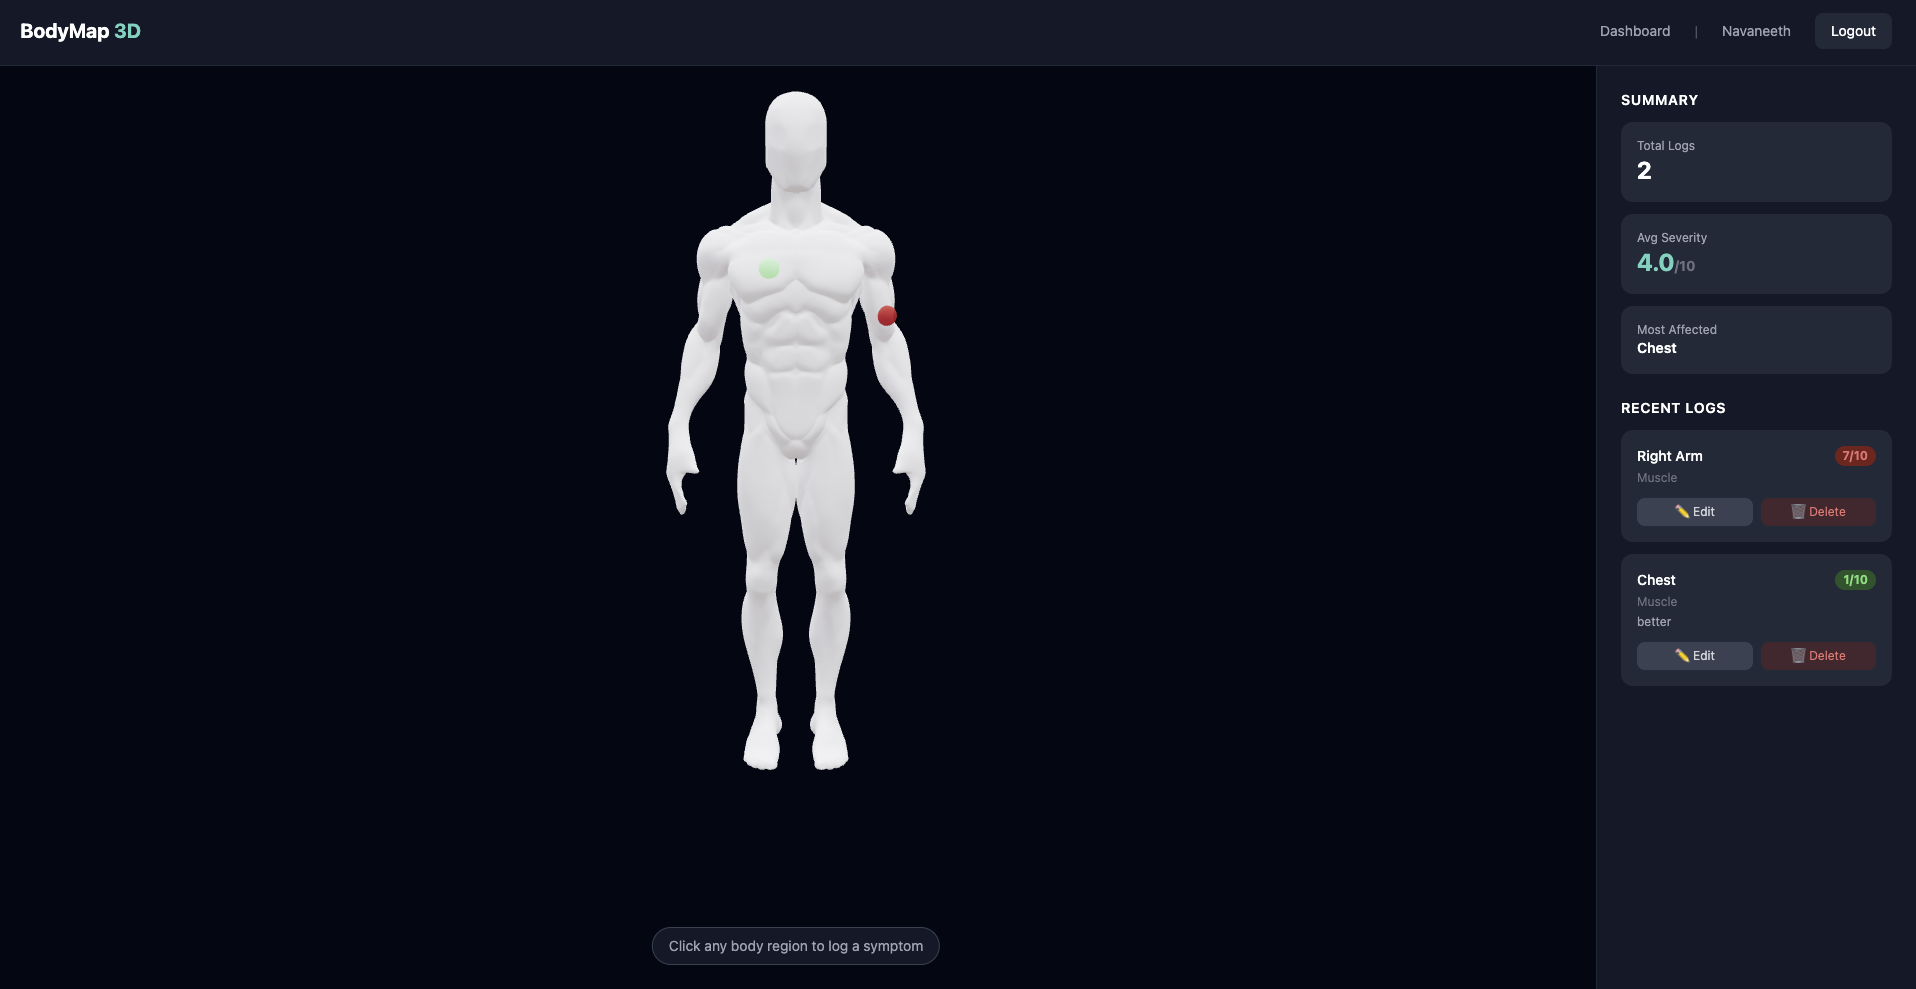
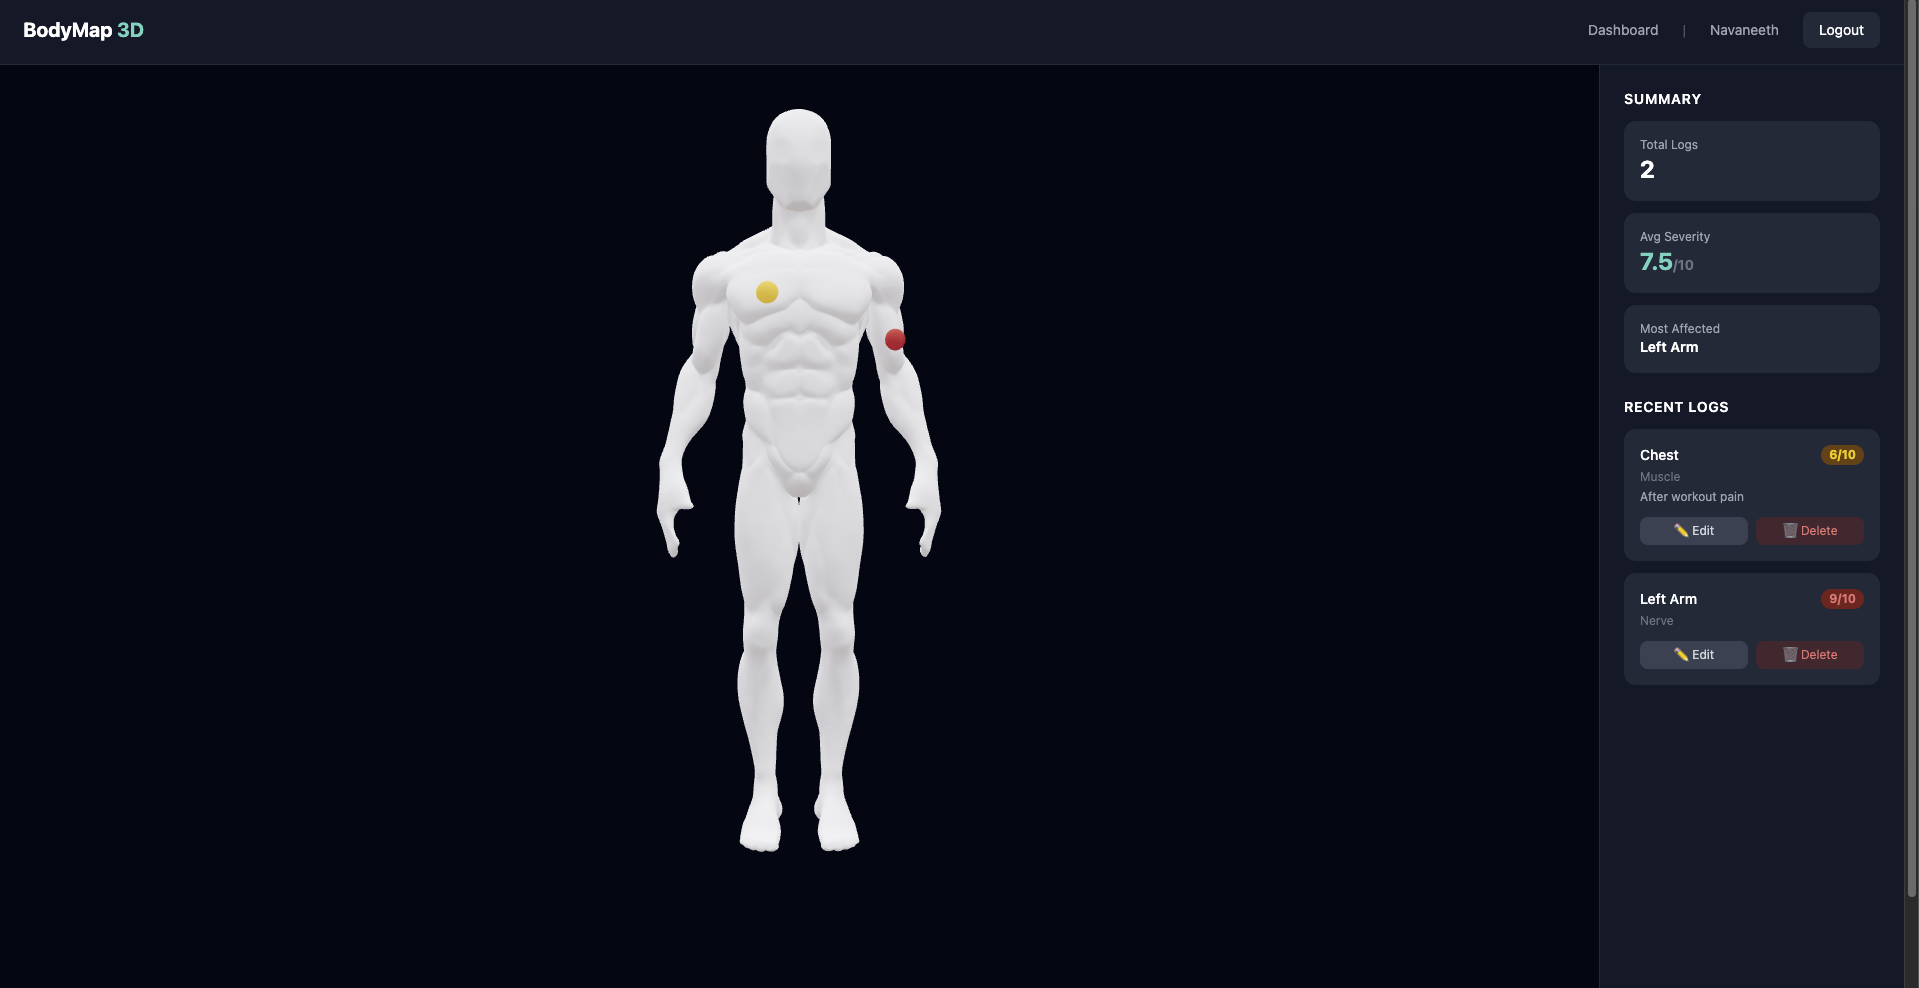
Updated screenshots

diff --git a/client/src/components/BodyModel.jsx b/client/src/components/BodyModel.jsx
@@ -11,21 +11,21 @@ const getRegionFromPoint = (point) => {
   if (z < 0) {
     if (y > 1.35)                                       return 'head';
     if (y > 1.2)                                        return 'neck';
-    if (y > 0.95 && x < -0.3)                          return 'left_shoulder';
-    if (y > 0.95 && x > 0.3)                           return 'right_shoulder';
+    if (y > 0.95 && x < -0.3)                          return 'right_shoulder';
+    if (y > 0.95 && x > 0.3)                           return 'left_shoulder';
     if (y > 0.9 && x > -0.3 && x < 0.3)               return 'upper_back';
     if (y > 0.75 && y < 0.95 && x > -0.3 && x < 0.3)  return 'middle_back';
     if (y > 0.5 && y < 0.75 && x > -0.3 && x < 0.3)   return 'lower_back';
-    if (y > 0.1 && y < 0.95 && x < -0.2)              return 'left_arm';
-    if (y > 0.1 && y < 0.95 && x > 0.2)               return 'right_arm';
+    if (y > 0.1 && y < 0.95 && x < -0.2)              return 'right_arm';
+    if (y > 0.1 && y < 0.95 && x > 0.2)               return 'left_arm';
     if (y < 0.5 && y > 0.3 && x < -0.05)              return 'right_glute';
     if (y < 0.5 && y > 0.3 && x > 0.05)               return 'left_glute';
     if (y < 0.3 && y > -0.25 && x < -0.1)              return 'right_hamstring';
     if (y < 0.3 && y > -0.25 && x > 0.1)               return 'left_hamstring';
-    if (y > -0.25 && y < 0.1 && x < -0.1)             return 'left_knee';
-    if (y > -0.25 && y < 0.1 && x > 0.1)              return 'right_knee';
-    if (y > -0.5 && y < -0.25 && x < -0.1)              return 'left_calf';
-    if (y > -0.5 && y < -0.25 && x > 0.1)               return 'right_calf';
+    if (y > -0.25 && y < 0.1 && x < -0.1)             return 'right_knee';
+    if (y > -0.25 && y < 0.1 && x > 0.1)              return 'left_knee';
+    if (y > -0.5 && y < -0.25 && x < -0.1)              return 'right_calf';
+    if (y > -0.5 && y < -0.25 && x > 0.1)               return 'left_calf';
      if (y > -1.1 && y < -0.9 && x > 0.1)               return 'heel';
     if (y > -1.1 && y < -0.9 && x < -0.1)               return 'heel';
     return 'Selected region is not identifiable';

diff --git a/README.md b/README.md
@@ -15,6 +15,9 @@
 ### Login & Register
 ![Login](./screenshots/login.png)
 
+### AI Insight
+![AI Insight](./screenshots/ai.png)
+
 ---
 
 ## ✨ Features